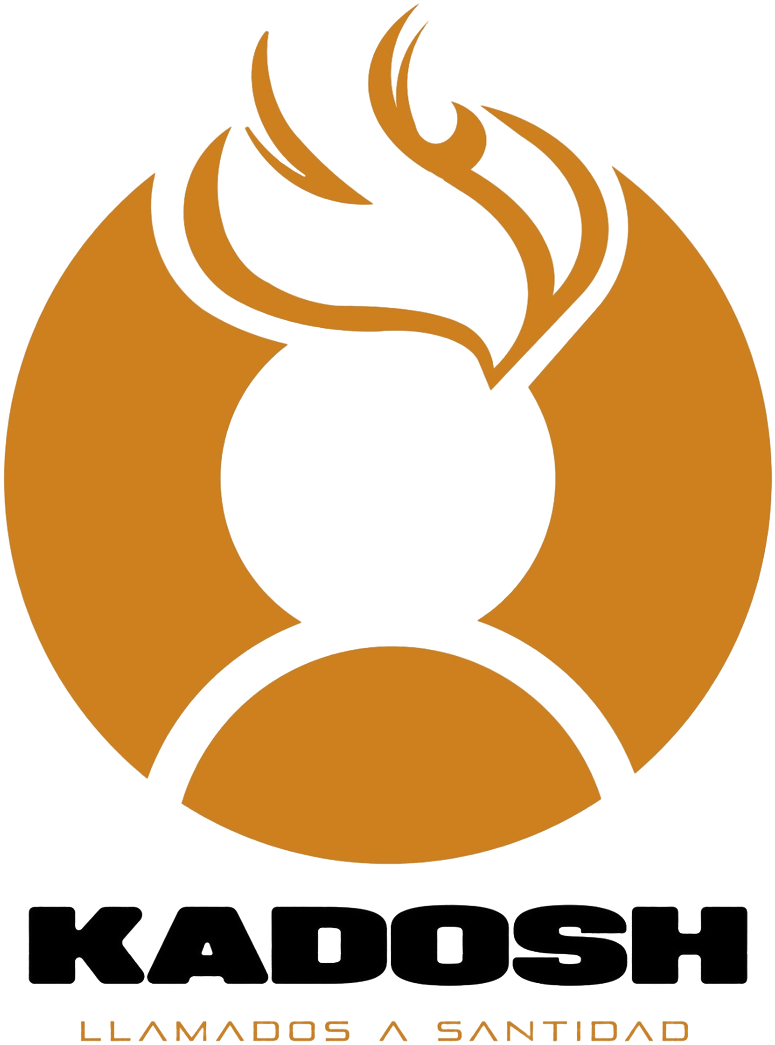
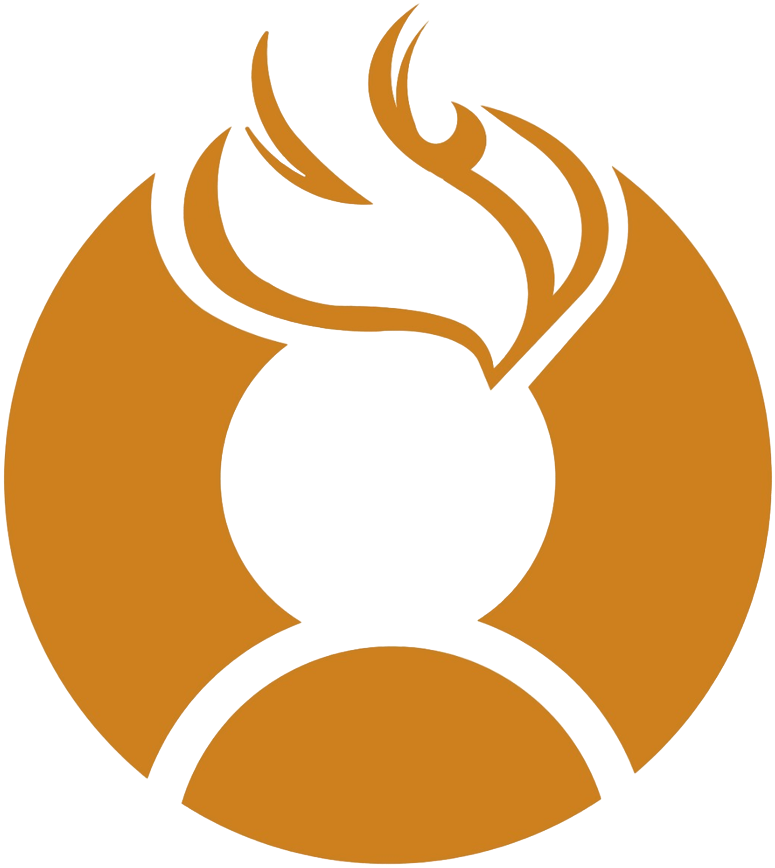
add information page, update and fixed style content and rename page.

diff --git a/src/components/bodyPage.vue b/src/components/bodyPage.vue
@@ -3,7 +3,9 @@
 import ContentPage from "@/components/contentPage.vue";
 import portTarapoto from "@/assets/images/portTarapoto.jpg";
 import happyYoung from "@/assets/images/happyYoung.jpg";
-
+import LocationEvent from "@/components/locationEvent.vue";
+import TeamContent from "@/components/teamContent.vue";
+import FooterPage from "@/components/footerPage.vue";
 
 </script>
 
@@ -38,14 +40,7 @@ import happyYoung from "@/assets/images/happyYoung.jpg";
         </div>
 
         <content-page gradient-mode="to bottom right" color-via="var(--color-primary-100)" color-from="var(--color-primary-500)"
-                      color-to="var(--color-primary-700)" :opacity="0.65" :url-image="happyYoung">
-            <template #description>
-                no c k poner aki xd
-            </template>
-            <template #bottom-description>
-                tetas
-            </template>
-        </content-page>
+                      color-to="var(--color-primary-700)" :opacity="0.65" :url-image="happyYoung"/>
 
         <div class="grid w-full justify-items-center px-4 py-10 bg-slate-950">
             <p class="text-center text-3xl font-info md:text-5xl">
@@ -59,16 +54,13 @@ import happyYoung from "@/assets/images/happyYoung.jpg";
                 Vive la experiencia de Kadosh. Pon al servicio de la comunidad los dones y talentos que Dios te ha dado, mientras que
                 impactamos.
             </p>
-            <!-- Responsive container: switches from column on mobile to row on md+ -->
             <div class="mt-10 flex w-full flex-col items-center gap-6 md:flex-row">
-                <!-- Video container with aspect ratio (16:9) -->
                 <div class="w-full md:w-1/2">
-                    <div class="relative w-full bg-indigo-500 pb-80">
-                        <iframe class="absolute top-0 left-0 h-full w-full" title="YouTube video player" allowfullscreen
-                                src="https://www.youtube.com/embed/AbQtqh_eUCM?si=tUnfe-P4WnjFchEM"/>
+                    <div class="relative w-full pb-80">
+                        <iframe class="absolute top-0 left-0 h-full w-full rounded-2xl" title="YouTube video player" allowfullscreen
+                                src="https://www.youtube.com/embed/Bn4Qi1Wuxb0?si=9nzLjBR2UXK1aR4T"/>
                     </div>
                 </div>
-                <!-- Text container -->
                 <div class="w-full px-4 text-center text-2xl font-info md:w-1/2 md:text-4xl">
                     Toda la ciudad sabrá que estos que han trastornado al mundo...
                     <span class="block font-bold">TAMBIÉN HAN LLEGADO A TARAPOTO</span>
@@ -76,30 +68,14 @@ import happyYoung from "@/assets/images/happyYoung.jpg";
             </div>
         </div>
 
-        <content-page gradient-mode="to bottom right" color-via="var(--color-primary-100)" color-from="var(--color-primary-500)"
-                      color-to="var(--color-primary-700)" :opacity="0.65"
-                      url-image="https://as2.ftcdn.net/v2/jpg/02/56/10/07/1000_F_256100731_qNLp6MQ3FjYtA3Freu9epjhsAj2cwU9c.jpg">
-            <template #description>
-                no c k poner aki xd
-            </template>
-        </content-page>
+        <location-event/>
 
-        <div class="grid w-full justify-items-center px-4 py-5 bg-slate-950">
-            <div class="flex w-full flex-col items-center gap-6 md:flex-row">
-                <!-- Video container with aspect ratio (16:9) -->
-                <div class="w-full md:w-1/2">
-                    <div class="relative w-full pb-80">
-                        <iframe src="https://www.google.com/maps/embed?pb=!1m14!1m8!1m3!1d7969.033943686046!2d-79.08876090408359!3d-8.088177683828809!3m2!1i1024!2i768!4f13.1!3m3!1m2!1s0x91ad3c3fb3b141e3%3A0xabcdff834d4deeaa!2sColegio%20Militar%20Gran%20Maricon%20Ram%C3%B3n%20Castilla!5e0!3m2!1sen!2sco!4v1717595544404!5m2!1sen!2sco"
-                                loading="lazy" referrerpolicy="no-referrer-when-downgrade"
-                                class="absolute top-0 left-0 rounded-2xl h-full w-full sectionVenue__Map-sc-15l7hda-2 gzfAHm"/>
-                    </div>
-                </div>
-                <!-- Text container -->
-                <div class="w-full px-4 text-center text-2xl font-info md:w-1/2 md:text-4xl">
-                    ¿Dónde?
-                    <span class="block font-bold">TAMBIÉN HAN LLEGADO A TARAPOTO</span>
-                </div>
+        <div class="flex w-full items-center justify-center py-10 text-center text-3xl font-info bg-slate-950 md:text-5xl">
+            <div>
+                "Kadosh es el desafío a aceptar el llamado de Dios a tu vida."
             </div>
         </div>
+        <team-content/>
+        <footer-page/>
     </main>
 </template>

diff --git a/src/components/headerMenu.vue b/src/components/headerMenu.vue
@@ -22,10 +22,10 @@ const toggleMobileMenu = () => {
 };
 
 const menuItems = [
-    { label: "¿De qué se trata?" },
-    { label: "Agenda" },
-    { label: "Speakers" },
-    { label: "Labs" }
+    { currentPage: "#about", label: "¿De qué se trata?" },
+    // { currentPage: "", label: "Agenda" },
+    { currentPage: "", label: "Nuestro equipo" },
+    { currentPage: "", label: "Ubicanos" }
 ];
 
 const specialItem = { label: "Inscríbete", special: true };
@@ -37,7 +37,7 @@ const specialItem = { label: "Inscríbete", special: true };
         <nav class="container mx-auto flex items-center justify-between">
             <!-- Logo -->
             <div aria-description="header logo business" class="flex justify-center">
-                <img src="../assets/images/kadosh.png" alt="business logo" class="h-16 w-12"/>
+                <img src="../assets/images/kadosh.png" alt="business logo" class="h-16"/>
             </div>
             <!-- Botón de menú móvil (visible solo en móviles) -->
             <button class="block p-2 md:hidden" @click="toggleMobileMenu" aria-label="Toggle menu">
@@ -60,7 +60,7 @@ const specialItem = { label: "Inscríbete", special: true };
         <!-- Menú móvil desplegable con transición (visible solo en móviles) -->
         <transition name="slide-fade">
             <div v-if="isMobileMenuOpen" class="mt-2 md:hidden max-h-[50vh] overflow-y-auto">
-                <ul class="flex flex-col p-4 space-y-2" :class="isScrolled ? 'bg-slate-950/70' : 'bg-red-950/80'">
+                <ul class="flex flex-col p-4 space-y-2" :class="isScrolled ? 'bg-slate-950/70' : 'bg-slate-950/80'">
                     <li v-for="(item, index) in menuItems" :key="index" class="items-header">
                         <a aria-description="items-header">{{ item.label }}</a>
                     </li>

diff --git a/components.d.ts b/components.d.ts
@@ -1,0 +1,23 @@
+/* eslint-disable */
+// @ts-nocheck
+// Generated by unplugin-vue-components
+// Read more: https://github.com/vuejs/core/pull/3399
+// biome-ignore lint: disable
+export {}
+
+/* prettier-ignore */
+declare module 'vue' {
+  export interface GlobalComponents {
+    BodyPage: typeof import('./src/components/bodyPage.vue')['default']
+    ContentPage: typeof import('./src/components/contentPage.vue')['default']
+    FooterPage: typeof import('./src/components/footerPage.vue')['default']
+    HeaderMenu: typeof import('./src/components/headerMenu.vue')['default']
+    IMaterialSymbolsCalendarMonth: typeof import('~icons/material-symbols/calendar-month')['default']
+    IMaterialSymbolsFileMap: typeof import('~icons/material-symbols/file-map')['default']
+    ITablerClockHour5: typeof import('~icons/tabler/clock-hour5')['default']
+    LocationEvent: typeof import('./src/components/locationEvent.vue')['default']
+    RouterLink: typeof import('vue-router')['RouterLink']
+    RouterView: typeof import('vue-router')['RouterView']
+    TeamContent: typeof import('./src/components/teamContent.vue')['default']
+  }
+}

diff --git a/index.html b/index.html
@@ -2,9 +2,9 @@
 <html lang="en">
   <head>
     <meta charset="UTF-8" />
-    <link rel="icon" type="image/svg+xml" href="/vite.svg" />
+    <link rel="icon" type="image/svg+xml" href="./src/assets/images/kadosh.png" />
     <meta name="viewport" content="width=device-width, initial-scale=1.0" />
-    <title>Vite + Vue + TS</title>
+    <title>Kadosh</title>
   </head>
   <body>
     <div id="app"></div>
